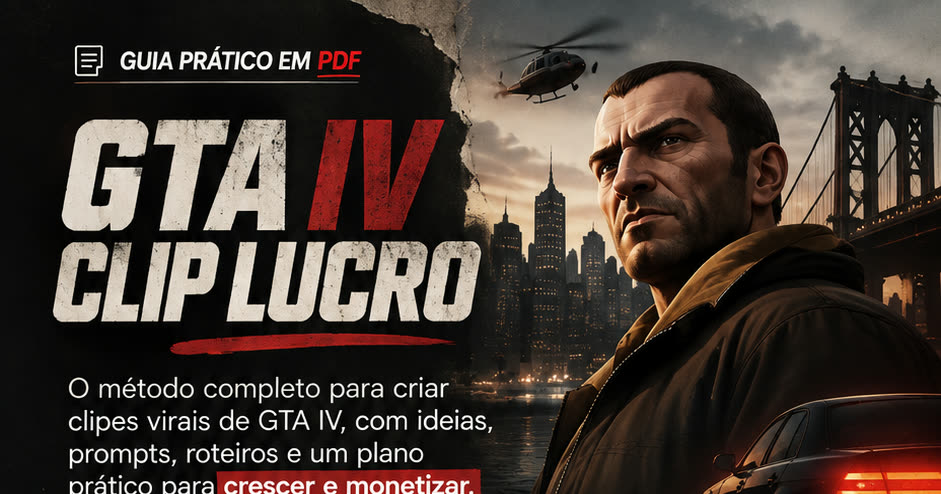
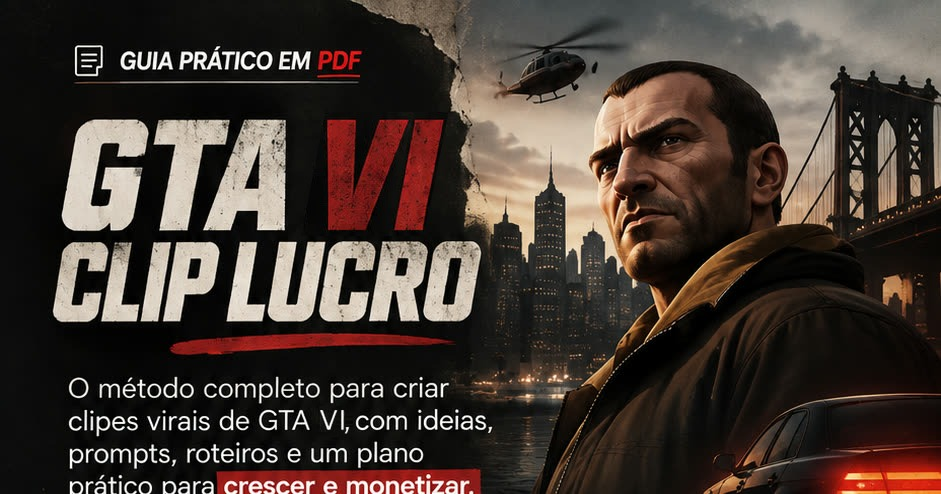
sd

Changed region(s): [[0.3082, 0.2429, 0.4931, 0.4858], [0.339, 0.0911, 0.4006, 0.1822], [0.339, 0.8198, 0.3698, 0.8806]]

diff --git a/index.html b/index.html
@@ -3,11 +3,11 @@
 <head>
 <meta charset="utf-8">
 <meta name="viewport" content="width=device-width, initial-scale=1, viewport-fit=cover">
-<title>GTA IV CLIP LUCRO — Crie Clipes e Conteúdo de Gameplay</title>
+<title>GTA VI CLIP LUCRO — Crie Clipes e Conteúdo de Gameplay</title>
 <meta name="description" content="Um guia prático com ideias, prompts, roteiros e planejamento para transformar gameplay em conteúdo pronto para publicar.">
 <meta name="theme-color" content="#0b0a09">
 <meta property="og:type" content="website">
-<meta property="og:title" content="GTA IV CLIP LUCRO — Crie Clipes e Conteúdo de Gameplay">
+<meta property="og:title" content="GTA VI CLIP LUCRO — Crie Clipes e Conteúdo de Gameplay">
 <meta property="og:description" content="Um guia prático com ideias, prompts, roteiros e planejamento para transformar gameplay em conteúdo pronto para publicar.">
 <meta property="og:image" content="assets/og.jpg">
 <link rel="preload" as="image" href="assets/hero-sm.webp" media="(max-width: 759px)" fetchpriority="high">
@@ -97,6 +97,40 @@ a{color:inherit}
 .mini-price s{text-decoration-color:var(--red);text-decoration-thickness:2px}
 .mini-price strong{font-family:var(--display);font-weight:400;font-size:2.1rem;color:var(--ink);line-height:1}
 
+/* ---------- escolha de pagamento (cartão / pix) ---------- */
+.pay{container-type:inline-size;width:100%}
+.pay-grid{display:grid;gap:16px}
+.pay-opt{--pc:#ff3b43;--pc-glow:rgba(224,27,35,.5);position:relative;display:flex;flex-direction:column;align-items:center;gap:4px;min-width:0;padding:20px 16px 18px;border-radius:18px;text-align:center;
+  background:radial-gradient(120% 80% at 50% 0%,color-mix(in srgb,var(--pc) 10%,transparent),transparent 70%),linear-gradient(180deg,rgba(27,24,21,.92),rgba(11,10,9,.94));
+  border:1px solid color-mix(in srgb,var(--pc) 38%,transparent);box-shadow:0 0 0 1px rgba(255,255,255,.03) inset,0 18px 40px -22px var(--pc-glow)}
+.pay-opt.is-pix{--pc:#3fe05a;--pc-glow:rgba(56,201,74,.45)}
+.pay-label{display:flex;align-items:center;justify-content:center;gap:10px;margin:0;font-weight:800;font-style:italic;font-size:1.05rem;letter-spacing:.03em;text-transform:uppercase;color:#fff}
+.pay-label svg{width:28px;height:28px;flex:none;color:var(--pc);filter:drop-shadow(0 0 6px var(--pc-glow))}
+.pay-sub{margin:4px 0 0;font-weight:700;font-style:italic;font-size:1.05rem;letter-spacing:.04em;text-transform:uppercase;color:#cfc7ba}
+.pay-sub b{color:var(--pc);font-size:1.35em}
+.pay-price{margin:2px 0 14px;font-family:var(--display);font-size:clamp(2.8rem,15cqi,3.7rem);line-height:1;color:#fff;white-space:nowrap;transform:skewX(-6deg);text-shadow:0 4px 18px rgba(0,0,0,.6)}
+.pay-btn{position:relative;display:flex;align-items:center;justify-content:center;gap:12px;width:100%;min-height:62px;margin-top:auto;padding:14px 16px;border-radius:16px;
+  background:linear-gradient(180deg,rgba(255,255,255,.05),rgba(0,0,0,.25)),#0e0c0b;border:2px solid var(--pc);color:#fff;
+  font-weight:800;font-style:italic;font-size:1.06rem;letter-spacing:.03em;text-transform:uppercase;text-decoration:none;white-space:nowrap;
+  box-shadow:0 0 18px -4px var(--pc-glow),0 0 0 1px rgba(255,255,255,.06) inset,0 0 22px -10px var(--pc) inset;
+  overflow:hidden;transition:transform .2s ease,box-shadow .2s ease;-webkit-tap-highlight-color:transparent}
+.pay-btn svg{width:24px;height:24px;flex:none;color:var(--pc)}
+.pay-btn .arrow{width:20px;height:20px;color:#fff;transition:transform .2s ease}
+.pay-btn::before{content:"";position:absolute;top:0;bottom:0;left:-60%;width:40%;background:linear-gradient(100deg,transparent,rgba(255,255,255,.14),transparent);transform:skewX(-20deg);animation:shine 5s ease-in-out 2s infinite}
+.is-pix .pay-btn::before{animation-delay:2.6s}
+.pay-btn:hover{transform:translateY(-2px);box-shadow:0 0 28px -2px var(--pc-glow),0 0 0 1px rgba(255,255,255,.08) inset,0 0 26px -8px var(--pc) inset}
+.pay-btn:hover .arrow{transform:translateX(4px)}
+.pay-btn:active{transform:translateY(0)}
+.pay-btn:focus-visible{outline:3px solid var(--ink);outline-offset:3px}
+@container (min-width:500px){
+  .pay-grid{grid-template-columns:1fr 1fr}
+  .pay-price{font-size:clamp(2.6rem,7.6cqi,3.6rem)}
+  .pay-btn{font-size:clamp(.9rem,2.7cqi,1.04rem);gap:8px;padding:14px 10px;letter-spacing:.01em}
+  .pay-btn svg{width:20px;height:20px}
+}
+.price-box .pay,.final .pay{max-width:640px;margin:0 auto}
+.final .pay{margin-top:30px}
+
 /* ---------- BENEFÍCIOS ---------- */
 .benefits{background:var(--bg)}
 .benefits ul{display:grid;grid-template-columns:1fr 1fr;margin:0;padding:8px 0 40px;list-style:none;border-top:1px solid var(--line)}
@@ -184,7 +218,7 @@ footer p{margin:4px 0}
   .lead{font-size:1.25rem;max-width:32ch}
   .hero-product{margin:0;width:min(112%,620px);justify-self:end;align-self:end}
   .hero-product:hover .product-img,.offer-product:hover .product-img{transform:scale(1.025)}
-  .hero-buy{max-width:440px;align-self:start}
+  .hero-buy{align-self:start}
   .mini-price{justify-content:flex-start}
   .hero-buy .trust{justify-content:flex-start}
   .benefits ul{grid-template-columns:repeat(4,1fr);padding:0 0 48px}
@@ -204,7 +238,7 @@ footer p{margin:4px 0}
 }
 @media (prefers-reduced-motion:reduce){
   html{scroll-behavior:auto}
-  .cta::before{animation:none;display:none}
+  .cta::before,.pay-btn::before{animation:none;display:none}
   .js .reveal{opacity:1;transform:none;transition:none}
 }
 </style>
@@ -215,6 +249,8 @@ footer p{margin:4px 0}
   <defs>
     <symbol id="i-arrow" viewBox="0 0 24 24"><path d="M5 12h14M13 6l6 6-6 6" fill="none" stroke="currentColor" stroke-width="2.6" stroke-linecap="round" stroke-linejoin="round"/></symbol>
     <symbol id="i-cart" viewBox="0 0 24 24"><g fill="none" stroke="currentColor" stroke-width="2.2" stroke-linecap="round" stroke-linejoin="round"><path d="M3 4h2.2l2.3 10.5a1.5 1.5 0 0 0 1.5 1.2h8.4a1.5 1.5 0 0 0 1.5-1.1L21 8H6.3"/><circle cx="9.5" cy="19.5" r="1.3"/><circle cx="17" cy="19.5" r="1.3"/></g></symbol>
+    <symbol id="i-card" viewBox="0 0 24 24"><g fill="none" stroke="currentColor" stroke-width="2" stroke-linecap="round" stroke-linejoin="round"><rect x="2.5" y="5" width="19" height="14" rx="2.2"/><path d="M2.5 9.5h19M6 15h4M14.5 15h3"/></g></symbol>
+    <symbol id="i-pix" viewBox="0 0 24 24"><g fill="currentColor"><path d="M12 1.6 16.4 6 12 10.4 7.6 6z"/><path d="M12 13.6 16.4 18 12 22.4 7.6 18z"/><path d="M6 7.6 10.4 12 6 16.4 1.6 12z"/><path d="M18 7.6 22.4 12 18 16.4 13.6 12z"/></g></symbol>
     <symbol id="i-lock" viewBox="0 0 24 24"><g fill="none" stroke="currentColor" stroke-width="2" stroke-linecap="round" stroke-linejoin="round"><rect x="4.5" y="10.5" width="15" height="10" rx="2"/><path d="M8 10.5V7.5a4 4 0 0 1 8 0v3"/></g></symbol>
     <symbol id="i-bolt" viewBox="0 0 24 24"><path d="M13 2 4.5 13.5H11L10 22l8.5-11.5H12L13 2Z" fill="none" stroke="currentColor" stroke-width="2" stroke-linejoin="round"/></symbol>
     <symbol id="i-check" viewBox="0 0 24 24"><path d="m5 12.5 4.2 4.2L19 7" fill="none" stroke="currentColor" stroke-width="3" stroke-linecap="round" stroke-linejoin="round"/></symbol>
@@ -236,18 +272,34 @@ footer p{margin:4px 0}
   <div class="wrap hero-grid">
     <div class="hero-copy">
       <p class="kicker"><svg aria-hidden="true"><use href="#i-doc"/></svg>Guia prático em&nbsp;<b>PDF</b></p>
-      <h1 class="display title"><span class="slant l1">GTA <em>IV</em></span><span class="slant l2">Clip Lucro</span></h1>
+      <h1 class="display title"><span class="slant l1">GTA <em>VI</em></span><span class="slant l2">Clip Lucro</span></h1>
       <svg class="brush" aria-hidden="true"><use href="#brush"/></svg>
       <p class="lead">O método completo para criar clipes de gameplay, com ideias, prompts, roteiros e <mark>um plano prático para produzir conteúdo.</mark></p>
     </div>
     <div class="hero-product">
-      <img class="product-img" src="assets/produto-kit.webp" alt="GTA IV Clip Lucro: caixa do produto, notebook e celular com o material" width="745" height="445" fetchpriority="high" decoding="async">
+      <img class="product-img" src="assets/produto-kit.webp" alt="GTA VI Clip Lucro: caixa do produto, notebook e celular com o material" width="745" height="445" fetchpriority="high" decoding="async">
     </div>
     <div class="hero-buy">
-      <p class="mini-price"><span>De <s>R$ 69,90</s></span><span>por</span><strong>R$ 27,50</strong></p>
-      <a class="cta" href="#oferta" data-checkout>
-        <svg aria-hidden="true"><use href="#i-cart"/></svg>Quero meu acesso agora<svg class="arrow" aria-hidden="true"><use href="#i-arrow"/></svg>
-      </a>
+      <div class="pay">
+        <div class="pay-grid">
+          <div class="pay-opt is-card">
+            <p class="pay-label"><svg aria-hidden="true"><use href="#i-card"/></svg>Cartão de crédito</p>
+            <p class="pay-sub">Em até <b>12x</b> de</p>
+            <p class="pay-price">R$ 69,90</p>
+            <a class="pay-btn" href="https://link.infinitepay.io/gtaiv/VC1D-BzwK1Ps7Lt-69,90" rel="noopener">
+              <svg aria-hidden="true"><use href="#i-card"/></svg>Pagar com cartão<svg class="arrow" aria-hidden="true"><use href="#i-arrow"/></svg>
+            </a>
+          </div>
+          <div class="pay-opt is-pix">
+            <p class="pay-label"><svg aria-hidden="true"><use href="#i-pix"/></svg>Pix</p>
+            <p class="pay-sub">Apenas</p>
+            <p class="pay-price">R$ 27,50</p>
+            <a class="pay-btn" href="https://app.pushinpay.com.br/service/pay/a342d955-54d2-4204-82da-312f8728aae2" rel="noopener">
+              <svg aria-hidden="true"><use href="#i-pix"/></svg>Pagar com Pix<svg class="arrow" aria-hidden="true"><use href="#i-arrow"/></svg>
+            </a>
+          </div>
+        </div>
+      </div>
       <ul class="trust">
         <li><svg aria-hidden="true"><use href="#i-bolt"/></svg>Acesso imediato</li>
         <li><svg aria-hidden="true"><use href="#i-lock"/></svg>Pagamento seguro</li>
@@ -274,17 +326,30 @@ footer p{margin:4px 0}
 <section class="offer grain" id="oferta" aria-labelledby="oferta-t">
   <div class="wrap offer-grid">
     <div class="offer-product reveal">
-      <img class="product-img" src="assets/produto-box.webp" alt="Caixa do produto GTA IV Clip Lucro" width="345" height="445" loading="lazy" decoding="async">
+      <img class="product-img" src="assets/produto-box.webp" alt="Caixa do produto GTA VI Clip Lucro" width="345" height="445" loading="lazy" decoding="async">
     </div>
     <div class="price-box reveal">
       <h2 id="oferta-t" class="sr">Oferta</h2>
-      <p class="price-old">De <s>R$ 69,90</s></p>
-      <p class="price-tag">por apenas</p>
-      <p class="price" aria-label="R$ 27,50"><span class="cur">R$</span><span class="int">27</span><span class="dec">,50</span></p>
-      <svg class="brush" aria-hidden="true"><use href="#brush"/></svg>
-      <a class="cta" href="#oferta" data-checkout>
-        <svg aria-hidden="true"><use href="#i-cart"/></svg>Quero meu acesso agora<svg class="arrow" aria-hidden="true"><use href="#i-arrow"/></svg>
-      </a>
+      <div class="pay">
+        <div class="pay-grid">
+          <div class="pay-opt is-card">
+            <p class="pay-label"><svg aria-hidden="true"><use href="#i-card"/></svg>Cartão de crédito</p>
+            <p class="pay-sub">Em até <b>12x</b> de</p>
+            <p class="pay-price">R$ 69,90</p>
+            <a class="pay-btn" href="https://link.infinitepay.io/gtaiv/VC1D-BzwK1Ps7Lt-69,90" rel="noopener">
+              <svg aria-hidden="true"><use href="#i-card"/></svg>Pagar com cartão<svg class="arrow" aria-hidden="true"><use href="#i-arrow"/></svg>
+            </a>
+          </div>
+          <div class="pay-opt is-pix">
+            <p class="pay-label"><svg aria-hidden="true"><use href="#i-pix"/></svg>Pix</p>
+            <p class="pay-sub">Apenas</p>
+            <p class="pay-price">R$ 27,50</p>
+            <a class="pay-btn" href="https://app.pushinpay.com.br/service/pay/a342d955-54d2-4204-82da-312f8728aae2" rel="noopener">
+              <svg aria-hidden="true"><use href="#i-pix"/></svg>Pagar com Pix<svg class="arrow" aria-hidden="true"><use href="#i-arrow"/></svg>
+            </a>
+          </div>
+        </div>
+      </div>
       <ul class="trust">
         <li><svg aria-hidden="true"><use href="#i-bolt"/></svg>Acesso imediato</li>
         <li><svg aria-hidden="true"><use href="#i-lock"/></svg>Pagamento seguro</li>
@@ -342,11 +407,26 @@ footer p{margin:4px 0}
   <div class="wrap reveal">
     <h2 id="final-t" class="display"><span class="slant">Pare de começar</span><br><span class="slant"><em>do zero.</em></span></h2>
     <p class="lead">Tenha uma estrutura pronta para transformar ideias de gameplay em conteúdo.</p>
-    <p class="price-old">De <s>R$ 69,90</s></p>
-    <p class="price" aria-label="R$ 27,50"><span class="cur">R$</span><span class="int">27</span><span class="dec">,50</span></p>
-    <a class="cta" href="#oferta" data-checkout>
-      <svg aria-hidden="true"><use href="#i-cart"/></svg>Quero meu acesso agora<svg class="arrow" aria-hidden="true"><use href="#i-arrow"/></svg>
-    </a>
+    <div class="pay">
+      <div class="pay-grid">
+        <div class="pay-opt is-card">
+          <p class="pay-label"><svg aria-hidden="true"><use href="#i-card"/></svg>Cartão de crédito</p>
+          <p class="pay-sub">Em até <b>12x</b> de</p>
+          <p class="pay-price">R$ 69,90</p>
+          <a class="pay-btn" href="https://link.infinitepay.io/gtaiv/VC1D-BzwK1Ps7Lt-69,90" rel="noopener">
+            <svg aria-hidden="true"><use href="#i-card"/></svg>Pagar com cartão<svg class="arrow" aria-hidden="true"><use href="#i-arrow"/></svg>
+          </a>
+        </div>
+        <div class="pay-opt is-pix">
+          <p class="pay-label"><svg aria-hidden="true"><use href="#i-pix"/></svg>Pix</p>
+          <p class="pay-sub">Apenas</p>
+          <p class="pay-price">R$ 27,50</p>
+          <a class="pay-btn" href="https://app.pushinpay.com.br/service/pay/a342d955-54d2-4204-82da-312f8728aae2" rel="noopener">
+            <svg aria-hidden="true"><use href="#i-pix"/></svg>Pagar com Pix<svg class="arrow" aria-hidden="true"><use href="#i-arrow"/></svg>
+          </a>
+        </div>
+      </div>
+    </div>
     <ul class="trust">
       <li><svg aria-hidden="true"><use href="#i-bolt"/></svg>Acesso imediato</li>
       <li aria-hidden="true">•</li>
@@ -358,7 +438,7 @@ footer p{margin:4px 0}
 
 <footer>
   <div class="wrap">
-    <p>GTA IV Clip Lucro — guia digital em PDF.</p>
+    <p>GTA VI Clip Lucro — guia digital em PDF.</p>
     <p>Produto independente, sem vínculo com a Rockstar Games ou a Take-Two Interactive. As marcas citadas pertencem aos seus respectivos donos.</p>
   </div>
 </footer>

diff --git a/admin/admin.html b/admin/admin.html
@@ -3,7 +3,7 @@
 <head>
 <meta charset="utf-8">
 <meta name="viewport" content="width=device-width, initial-scale=1">
-<title>Dashboard — Admin GTA IV CLIP LUCRO</title>
+<title>Dashboard — Admin GTA VI CLIP LUCRO</title>
 <meta name="robots" content="noindex, nofollow">
 <meta name="theme-color" content="#0b0a09">
 <link rel="preconnect" href="https://fonts.googleapis.com">
@@ -185,7 +185,7 @@ dialog::backdrop{background:rgba(0,0,0,.65)}
 
 <div class="app">
   <aside class="side" id="side" aria-label="Menu">
-    <div class="logo"><span>GTA <em>IV</em> Clip Lucro</span></div>
+    <div class="logo"><span>GTA <em>VI</em> Clip Lucro</span></div>
     <hr>
     <nav class="nav">
       <a href="#dashboard" data-view="dashboard"><svg aria-hidden="true"><use href="#i-home"/></svg>Dashboard</a>
@@ -200,7 +200,7 @@ dialog::backdrop{background:rgba(0,0,0,.65)}
 
   <div style="min-width:0">
     <header class="topbar">
-      <div class="logo"><span>GTA <em>IV</em> Clip Lucro</span></div>
+      <div class="logo"><span>GTA <em>VI</em> Clip Lucro</span></div>
       <button class="icon-btn" id="menu-btn" type="button" aria-label="Abrir menu" aria-controls="side" aria-expanded="false"><svg aria-hidden="true"><use href="#i-menu"/></svg></button>
     </header>
 
@@ -210,7 +210,7 @@ dialog::backdrop{background:rgba(0,0,0,.65)}
         <div class="head">
           <div>
             <h1>Dashboard</h1>
-            <p>Visão geral das vendas do GTA IV CLIP LUCRO</p>
+            <p>Visão geral das vendas do GTA VI CLIP LUCRO</p>
           </div>
           <span class="chip offer-chip"><span class="dot"></span><span class="offer-label">Carregando…</span></span>
         </div>
@@ -262,9 +262,9 @@ dialog::backdrop{background:rgba(0,0,0,.65)}
         <div class="head"><div><h1>Produtos</h1><p>Produto à venda no checkout</p></div></div>
         <div class="panel">
           <div class="product">
-            <img src="/assets/produto-box.webp" alt="Caixa do produto GTA IV Clip Lucro" width="345" height="445">
+            <img src="/assets/produto-box.webp" alt="Caixa do produto GTA VI Clip Lucro" width="345" height="445">
             <div>
-              <h2 id="p-name">GTA IV Clip Lucro</h2>
+              <h2 id="p-name">GTA VI Clip Lucro</h2>
               <ul class="facts">
                 <li><small>Tipo</small><b id="p-type">–</b></li>
                 <li><small>Preço atual</small><b><s id="p-old"></s><span id="p-price">–</span></b></li>

diff --git a/checkout.html b/checkout.html
@@ -3,8 +3,8 @@
 <head>
 <meta charset="utf-8">
 <meta name="viewport" content="width=device-width, initial-scale=1, viewport-fit=cover">
-<title>Checkout — GTA IV CLIP LUCRO</title>
-<meta name="description" content="Finalize seu acesso ao GTA IV CLIP LUCRO com pagamento via PIX.">
+<title>Checkout — GTA VI CLIP LUCRO</title>
+<meta name="description" content="Finalize seu acesso ao GTA VI CLIP LUCRO com pagamento via PIX.">
 <meta name="robots" content="noindex">
 <meta name="theme-color" content="#0b0a09">
 <link rel="preconnect" href="https://fonts.googleapis.com">
@@ -175,7 +175,7 @@ footer{padding:20px 0 32px;text-align:center;font-size:.8rem;color:var(--muted);
 <!--/OFFER:price-->
 <header class="wrap top">
   <div>
-    <a href="/"><h1 class="display"><span class="slant">GTA <em>IV</em> Clip Lucro</span></h1></a>
+    <a href="/"><h1 class="display"><span class="slant">GTA <em>VI</em> Clip Lucro</span></h1></a>
     <p>Finalize seu acesso com segurança</p>
   </div>
   <span class="secure"><svg aria-hidden="true"><use href="#i-lock"/></svg>Pagamento seguro</span>
@@ -186,9 +186,9 @@ footer{padding:20px 0 32px;text-align:center;font-size:.8rem;color:var(--muted);
   <div class="col-left">
     <section class="card" aria-labelledby="prod-t">
       <div class="product">
-        <img src="/assets/produto-box.webp" alt="Caixa do produto GTA IV Clip Lucro" width="345" height="445">
+        <img src="/assets/produto-box.webp" alt="Caixa do produto GTA VI Clip Lucro" width="345" height="445">
         <div>
-          <h2 id="prod-t">GTA IV Clip Lucro</h2>
+          <h2 id="prod-t">GTA VI Clip Lucro</h2>
           <p>Guia prático para criar clipes, crescer e monetizar seu conteúdo.</p>
         </div>
       </div>
@@ -294,7 +294,7 @@ footer{padding:20px 0 32px;text-align:center;font-size:.8rem;color:var(--muted);
   </div>
 </main>
 
-<footer><div class="wrap">GTA IV Clip Lucro — guia digital em PDF.</div></footer>
+<footer><div class="wrap">GTA VI Clip Lucro — guia digital em PDF.</div></footer>
 
 <script>
 (function(){

diff --git a/functions/[[path]].js b/functions/[[path]].js
@@ -1,4 +1,4 @@
-// Backend da página de vendas + checkout PIX do GTA IV CLIP LUCRO (Cloudflare Pages Functions).
+// Backend da página de vendas + checkout PIX do GTA VI CLIP LUCRO (Cloudflare Pages Functions).
 // Mesmas rotas e regras do antigo server.js; pedidos, sessões e rate limit ficam no D1 (binding DB)
 // e o PDF do produto no R2 (binding PRODUCT_FILES). Os arquivos estáticos vêm de dist/ (binding ASSETS).
 import crypto from 'node:crypto';
@@ -7,7 +7,7 @@ import { Buffer } from 'node:buffer';
 const ORDER_TTL_MS = 24 * 60 * 60 * 1000;
 const DEFAULT_CARD_CHECKOUT_URL = 'https://link.infinitepay.io/isaque085/VC1DLTAtUg-LXzP45g8Yz-27,50';
 
-const PRODUCT = { id: 'gta-iv-clip-lucro', name: 'GTA IV CLIP LUCRO', amountCents: 2750 };
+const PRODUCT = { id: 'gta-iv-clip-lucro', name: 'GTA VI CLIP LUCRO', amountCents: 2750 };
 const FINAL_STATUSES = new Set(['paid', 'failed', 'expired']);
 const METHODS = new Set(['PIX', 'CARD']);
 
@@ -270,7 +270,7 @@ async function download(ctx, token) {
     headers: {
       ...SECURITY_HEADERS,
       'Content-Type': 'application/pdf',
-      'Content-Disposition': 'attachment; filename="GTA-IV-CLIP-LUCRO.pdf"',
+      'Content-Disposition': 'attachment; filename="GTA-VI-CLIP-LUCRO.pdf"',
       'Cache-Control': 'private, no-store',
     },
   });

diff --git a/obrigado.html b/obrigado.html
@@ -3,7 +3,7 @@
 <head>
 <meta charset="utf-8">
 <meta name="viewport" content="width=device-width, initial-scale=1, viewport-fit=cover">
-<title>Seu acesso — GTA IV CLIP LUCRO</title>
+<title>Seu acesso — GTA VI CLIP LUCRO</title>
 <meta name="robots" content="noindex">
 <meta name="theme-color" content="#0b0a09">
 <link rel="preconnect" href="https://fonts.googleapis.com">
@@ -45,7 +45,7 @@ img{display:block;width:120px;height:auto;margin:22px auto 0;filter:drop-shadow(
   <div id="paid" hidden>
     <div class="badge" aria-hidden="true"><svg viewBox="0 0 24 24"><path d="m5 12.5 4.2 4.2L19 7" fill="none" stroke="currentColor" stroke-width="3" stroke-linecap="round" stroke-linejoin="round"/></svg></div>
     <h1>Pagamento confirmado!</h1>
-    <p>Seu acesso ao GTA IV CLIP LUCRO está liberado.</p>
+    <p>Seu acesso ao GTA VI CLIP LUCRO está liberado.</p>
     <img src="/assets/produto-box.webp" alt="" width="345" height="445">
     <a class="btn" id="access" href="#">Acessar meu produto</a>
   </div>

diff --git a/admin/login.html b/admin/login.html
@@ -3,7 +3,7 @@
 <head>
 <meta charset="utf-8">
 <meta name="viewport" content="width=device-width, initial-scale=1">
-<title>Entrar — Admin GTA IV CLIP LUCRO</title>
+<title>Entrar — Admin GTA VI CLIP LUCRO</title>
 <meta name="robots" content="noindex, nofollow">
 <meta name="theme-color" content="#0b0a09">
 <link rel="preconnect" href="https://fonts.googleapis.com">
@@ -31,7 +31,7 @@ button[disabled]{opacity:.7;cursor:progress}
 </head>
 <body>
 <main class="box">
-  <h1 class="logo"><span>GTA <em>IV</em> Clip Lucro</span></h1>
+  <h1 class="logo"><span>GTA <em>VI</em> Clip Lucro</span></h1>
   <p class="sub">Área administrativa</p>
   <form id="f" novalidate>
     <label for="email">E-mail</label>

diff --git a/README.md b/README.md
@@ -1,4 +1,4 @@
-# GTA IV CLIP LUCRO — página de vendas + checkout PIX
+# GTA VI CLIP LUCRO — página de vendas + checkout PIX
 
 Cloudflare Pages: arquivos estáticos em `dist/` + backend em `functions/[[path]].js` (Pages Functions).
 Pedidos, sessões do admin e rate limit ficam no **D1** (binding `DB`); o PDF do produto no **R2** (binding `PRODUCT_FILES`).
